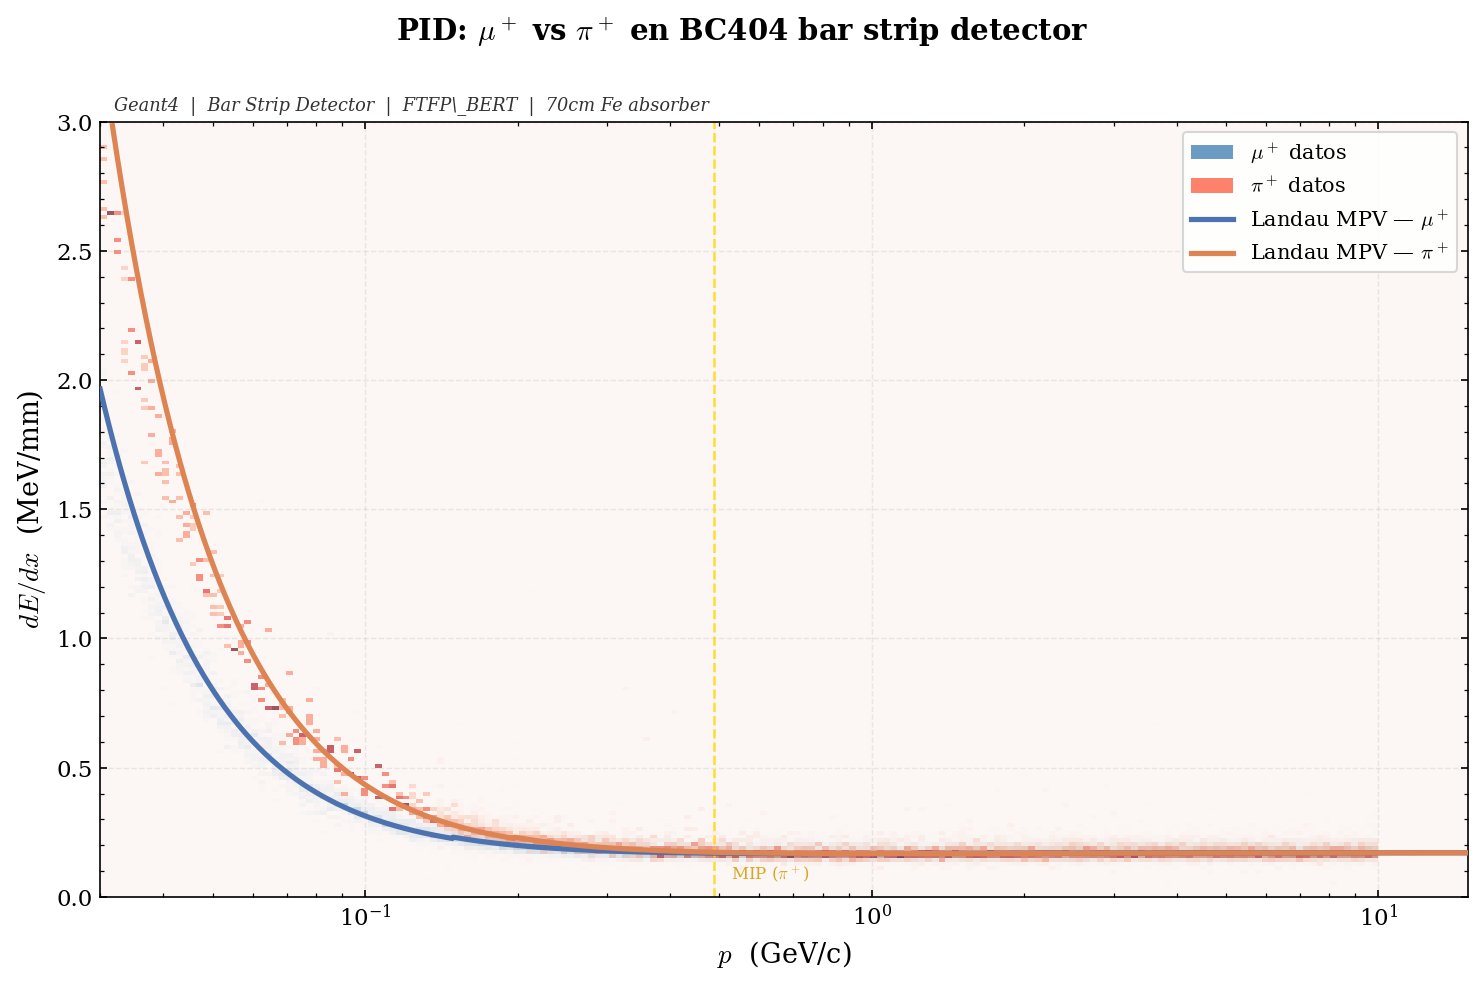
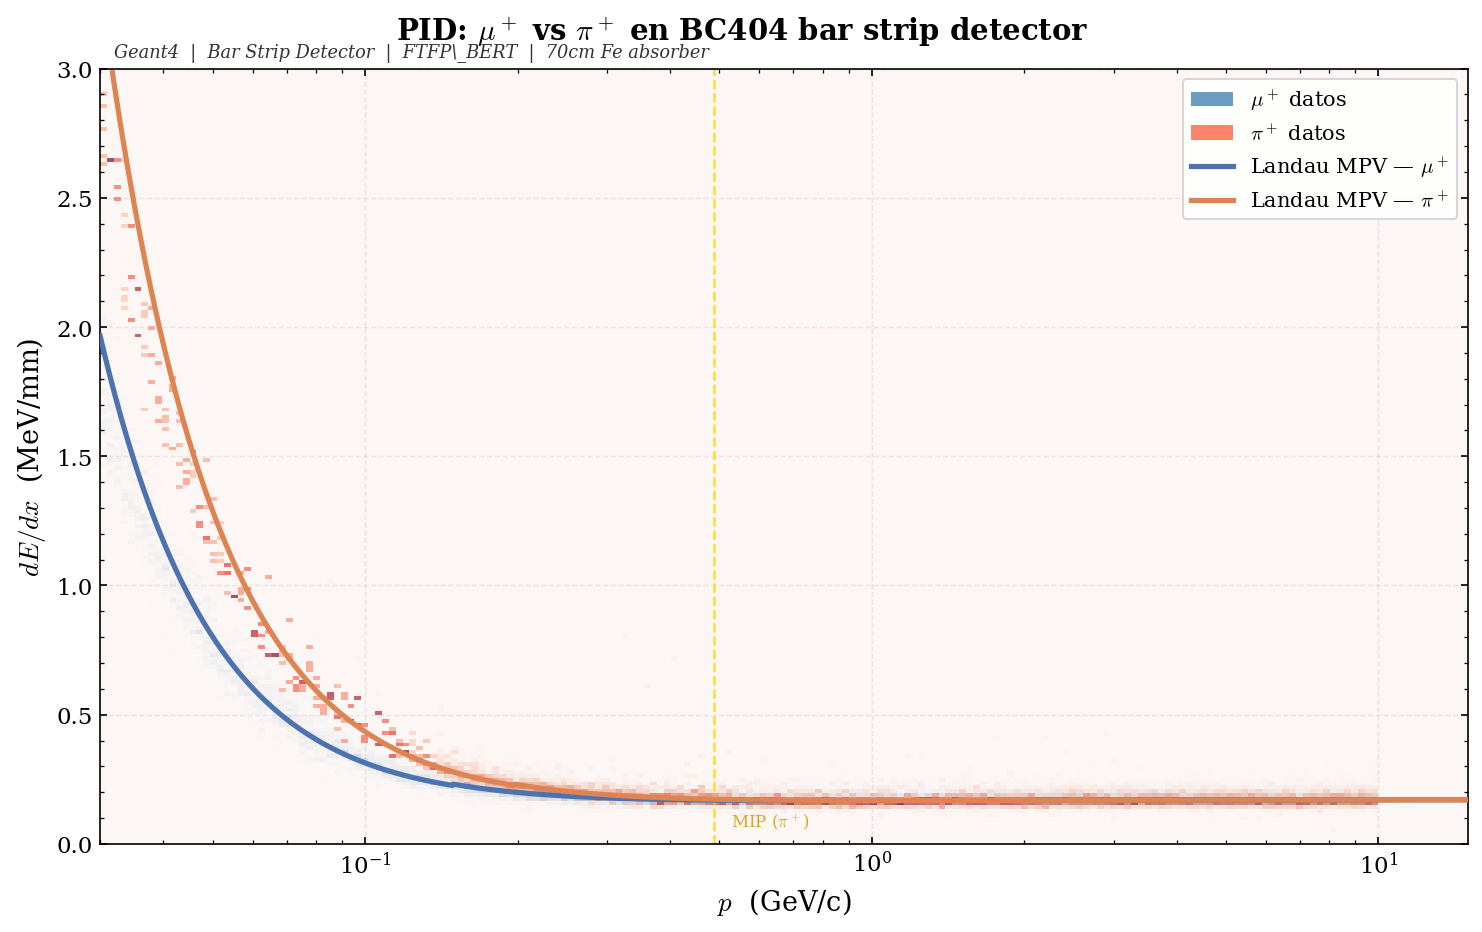
Lower suptitle position for overlay and PID plots
- bethe_bloch_overlay.png: suptitle y=0.93 -> 0.88
- pid_combined.png: suptitle y=0.93 -> 0.88

diff --git a/Bar Strip Detector + B-field 0.5T/plot_all.py b/Bar Strip Detector + B-field 0.5T/plot_all.py
@@ -682,7 +682,7 @@ def plot_overlay(mu, pi, out_dir):
     ax.set_xlim(bg_range); ax.set_ylim(DEDX_MIN, DEDX_MAX)
     ax.legend(fontsize=10, **_legend_kwargs())
     _add_info(ax)
-    fig.suptitle(r"Bethe-Bloch overlay: $\mu^+$ vs $\pi^+$ en BC404 (barras 1 cm)", fontsize=14, fontweight="bold", y=0.93)
+    fig.suptitle(r"Bethe-Bloch overlay: $\mu^+$ vs $\pi^+$ en BC404 (barras 1 cm)", fontsize=14, fontweight="bold", y=0.88)
     fig.tight_layout(rect=[0, 0, 1, 0.93])
     _save(fig, out_dir, "bethe_bloch_overlay.png")
 
@@ -749,7 +749,7 @@ def plot_pid_combined(mu, pi, out_dir):
     ax.set_ylabel(r"$dE/dx$  (MeV/mm)", fontsize=13)
     ax.set_xlim(p_range_GeV); ax.set_ylim(0, DEDX_LIN_MAX)
     _add_info(ax)
-    fig.suptitle(r"PID: $\mu^+$ vs $\pi^+$ en BC404 bar strip detector", fontsize=14, fontweight="bold", y=0.93)
+    fig.suptitle(r"PID: $\mu^+$ vs $\pi^+$ en BC404 bar strip detector", fontsize=14, fontweight="bold", y=0.88)
     fig.tight_layout(rect=[0, 0, 1, 0.93])
     _save(fig, out_dir, "pid_combined.png")
 
